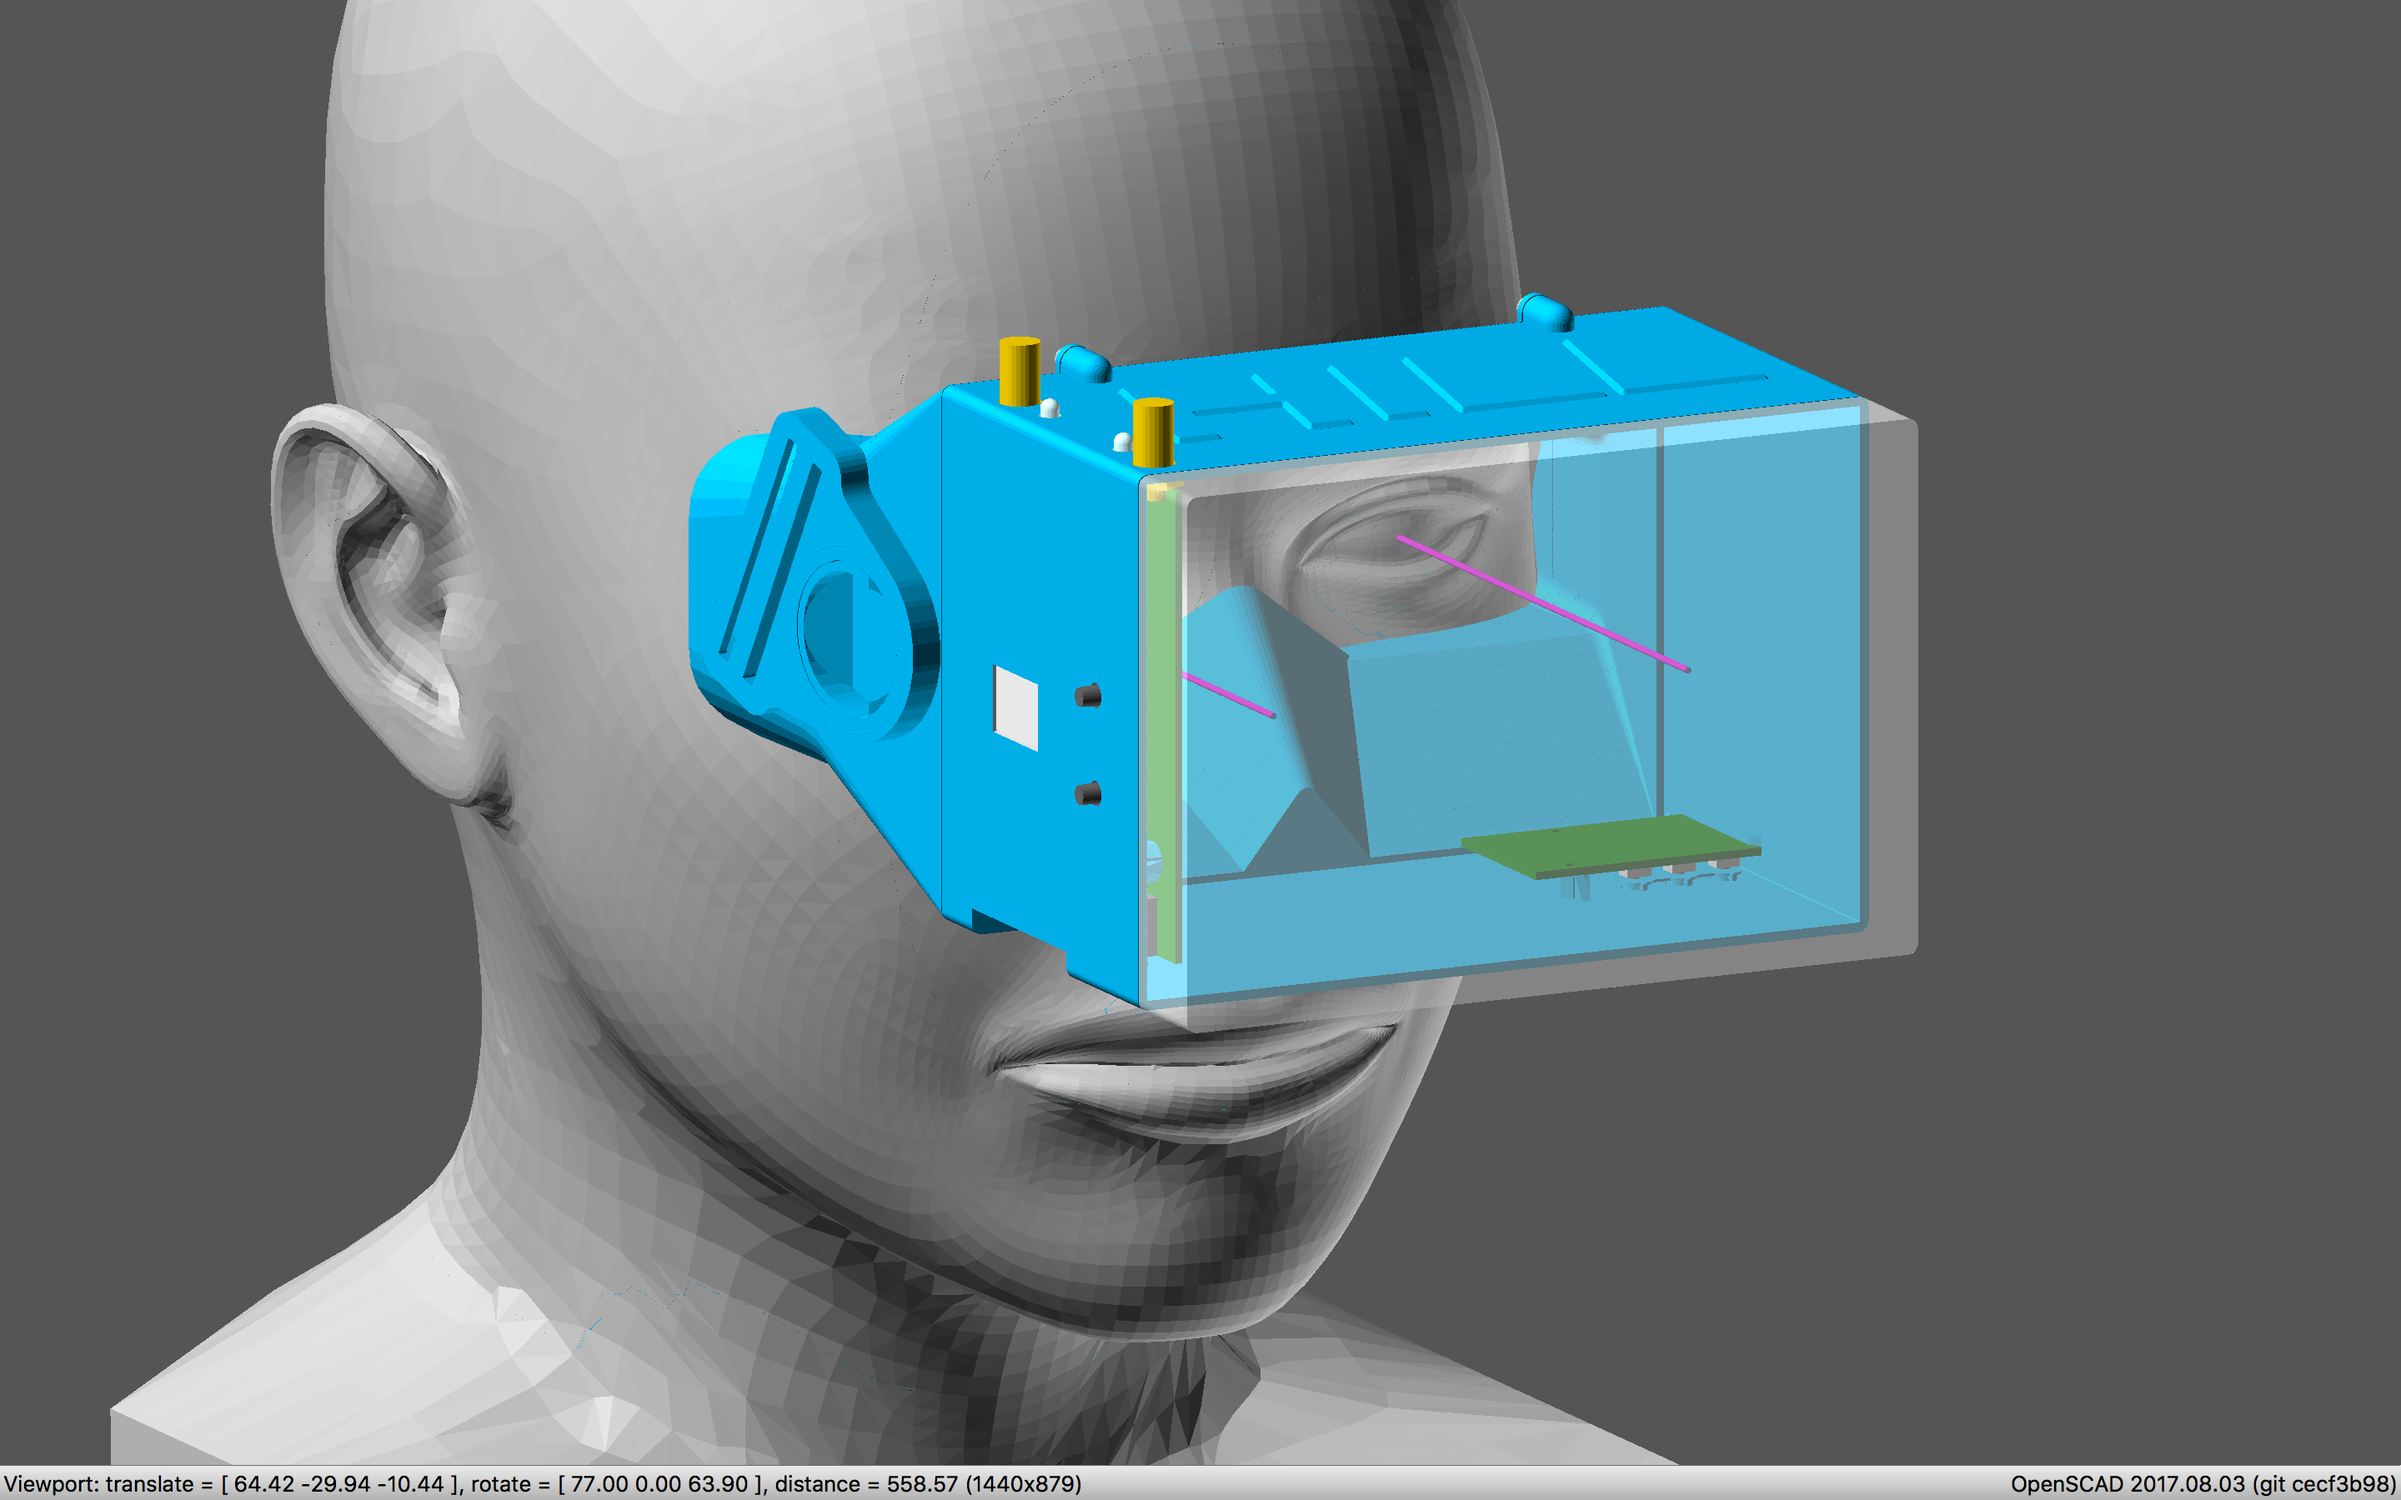
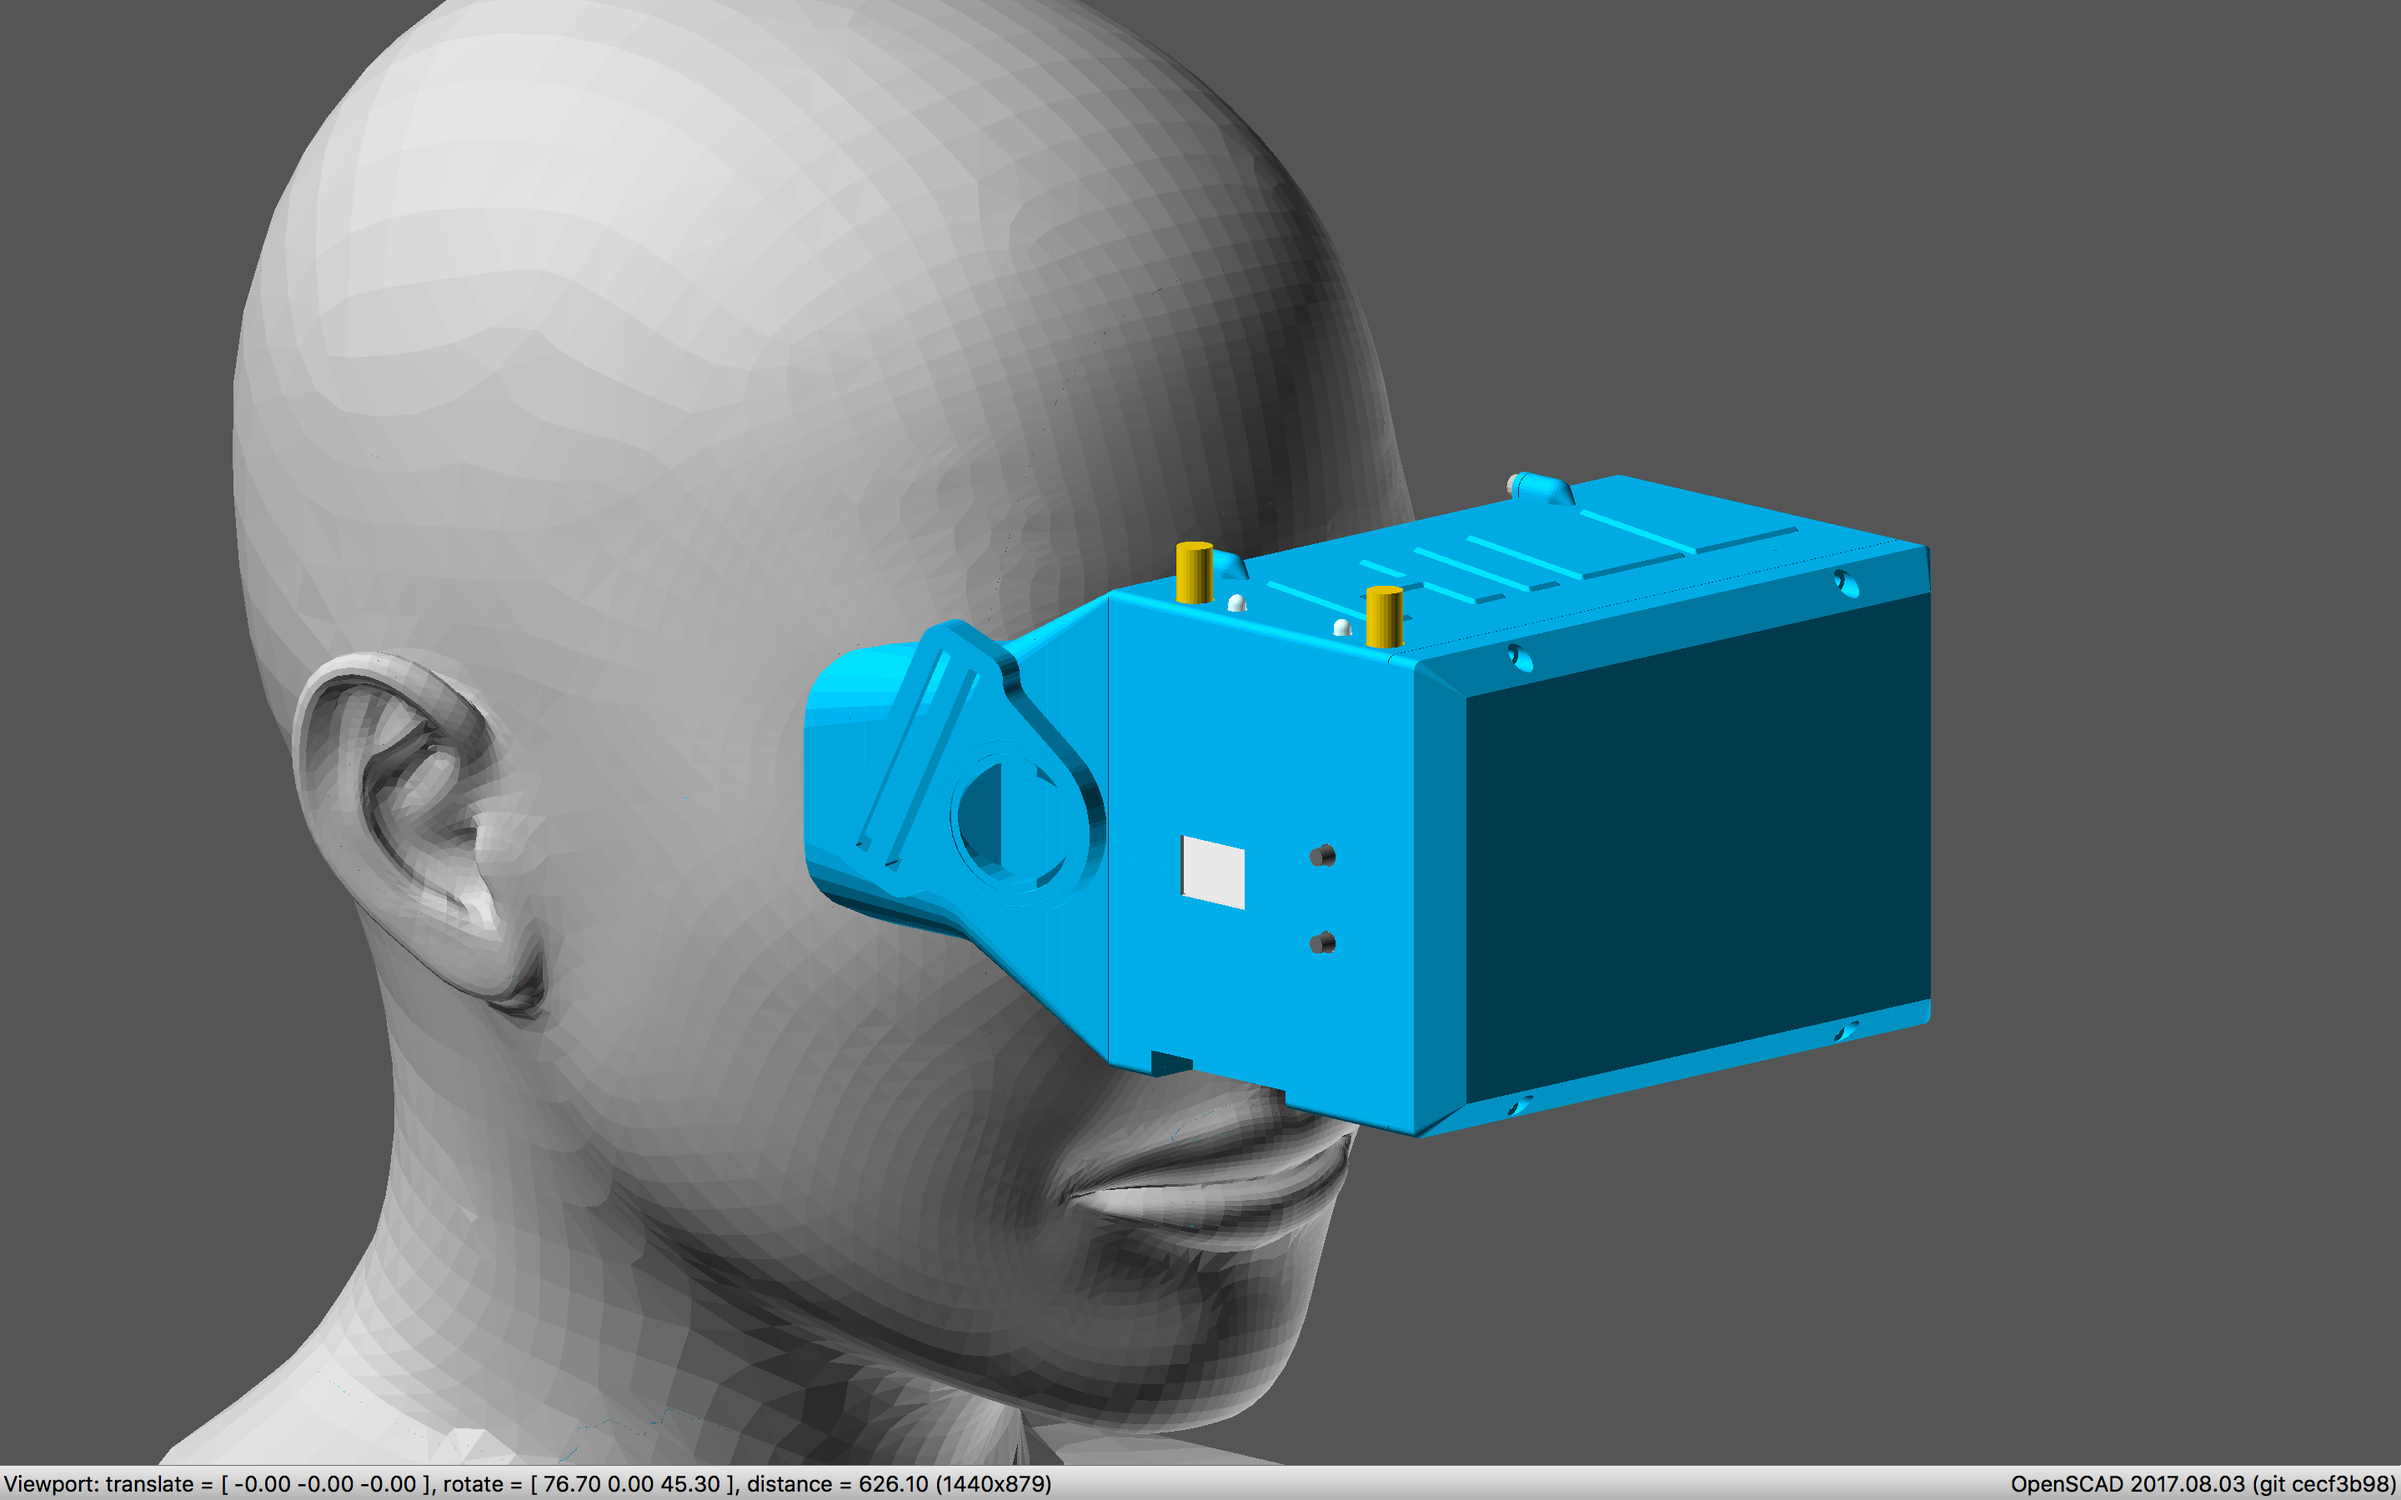
Added screen buttons, holes, mounts, screws

diff --git a/README.md b/README.md
@@ -27,9 +27,10 @@ Requires [BH Lib](https://github.com/brandonhill/BH-Lib). Checkout to adjacent d
 
 ## To do
 
-* Screen mount
-* Seams
+* Voltage regulator (for DVR)
 * Power/source switch mounts/holes
 * Power in
+* Mic
 * Add fan, switch
 * Add head tracker, switch
+* Seams?

diff --git a/CHANGELOG.md b/CHANGELOG.md
@@ -11,6 +11,7 @@ This project adheres to [Semantic Versioning](http://semver.org/spec/v2.0.0.html
 * Front lens retainer
 * VRx mounts, display/jack/switch holes
 * DVR mounts, switch holes, buttons
+* Screen mount, button mounts/holes
 
 ### Changed
 * Model orientation
